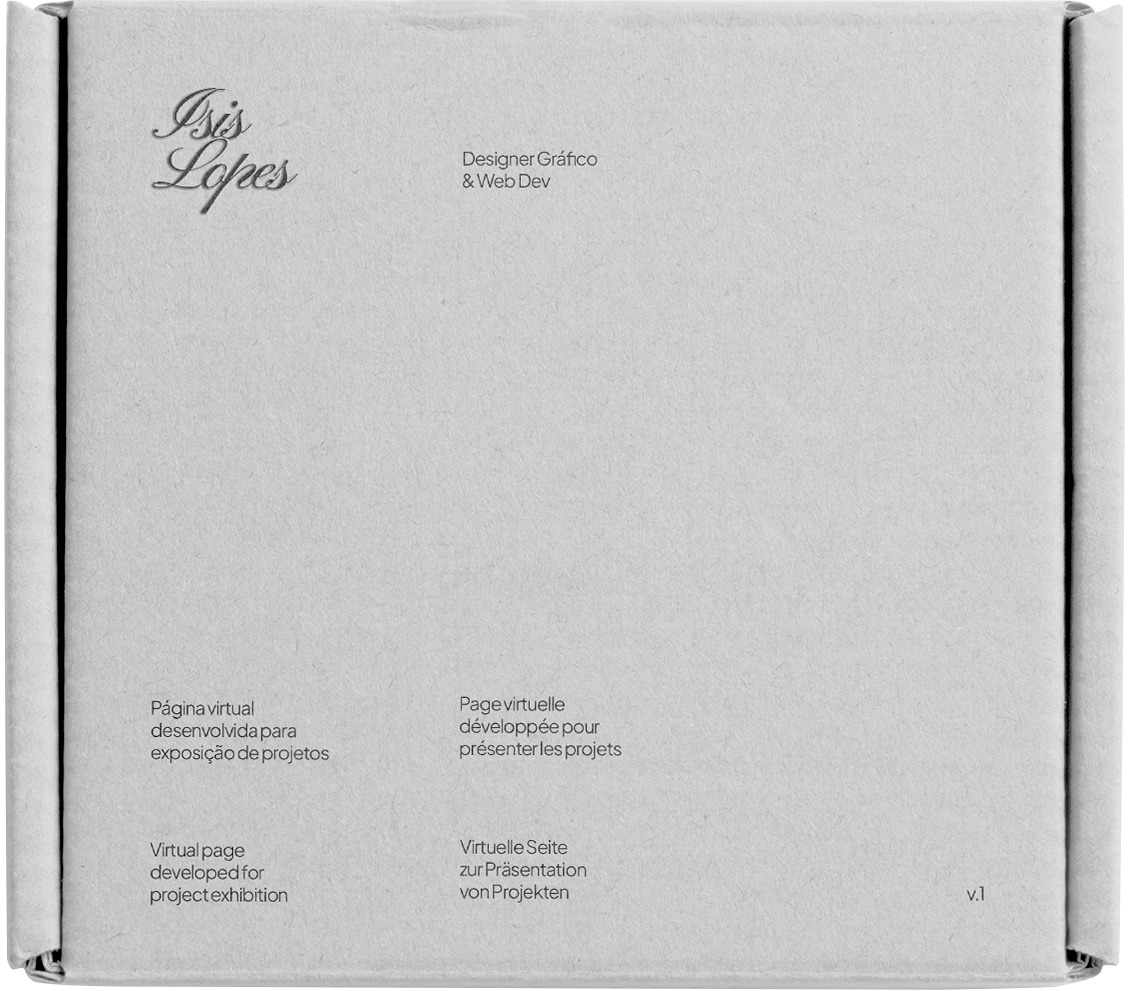
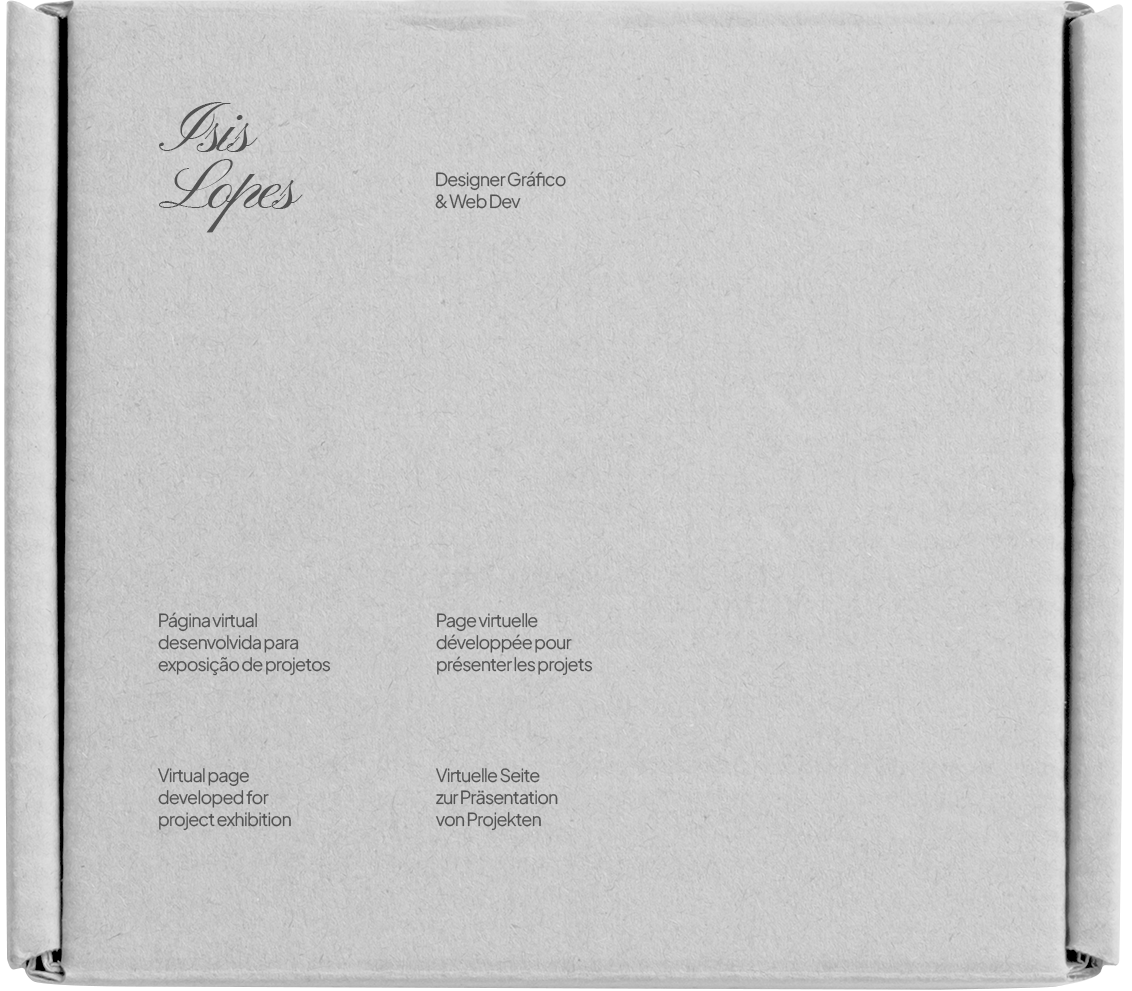
Resize box

diff --git a/style.css b/style.css
@@ -31,8 +31,8 @@ body {
 }
 
 .caixa {
-  height: 60vh;
   transition: transform 0.3s ease;
+  width: 40vw;
 }
 
 #pic {
@@ -55,4 +55,9 @@ body {
 }
 
 
-
+@media (max-width: 1039px) {
+  .caixa {
+    transition: transform 0.3s ease;
+    width: 80vw;
+  }
+}
